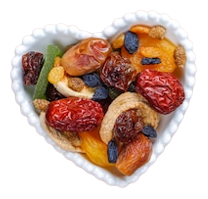
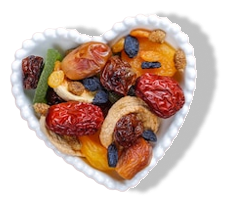
Updated image with image with shadow

diff --git a/src/images/images.ts b/src/images/images.ts
@@ -26,6 +26,7 @@ const PizzaSlice = require('./pizzaAnimation/pizzaSlice.png');
 const Fruits = require('./pizzaAnimation/fruits.png');
 const DryFruits = require('./pizzaAnimation/dryFruits.png');
 const Plate = require('./pizzaAnimation/plate.png');
+const PizzaSlice1 = require('./pizzaAnimation/pizzaSlice-1.png');
 
 const M5552401 = require('./cars/5552401.png');
 const M7383264 = require('./cars/7383264.png');
@@ -47,6 +48,7 @@ const Images = {
   Fruits,
   DryFruits,
   Plate,
+  PizzaSlice1,
 
   BlackPanthoor,
   BlackWidow,
